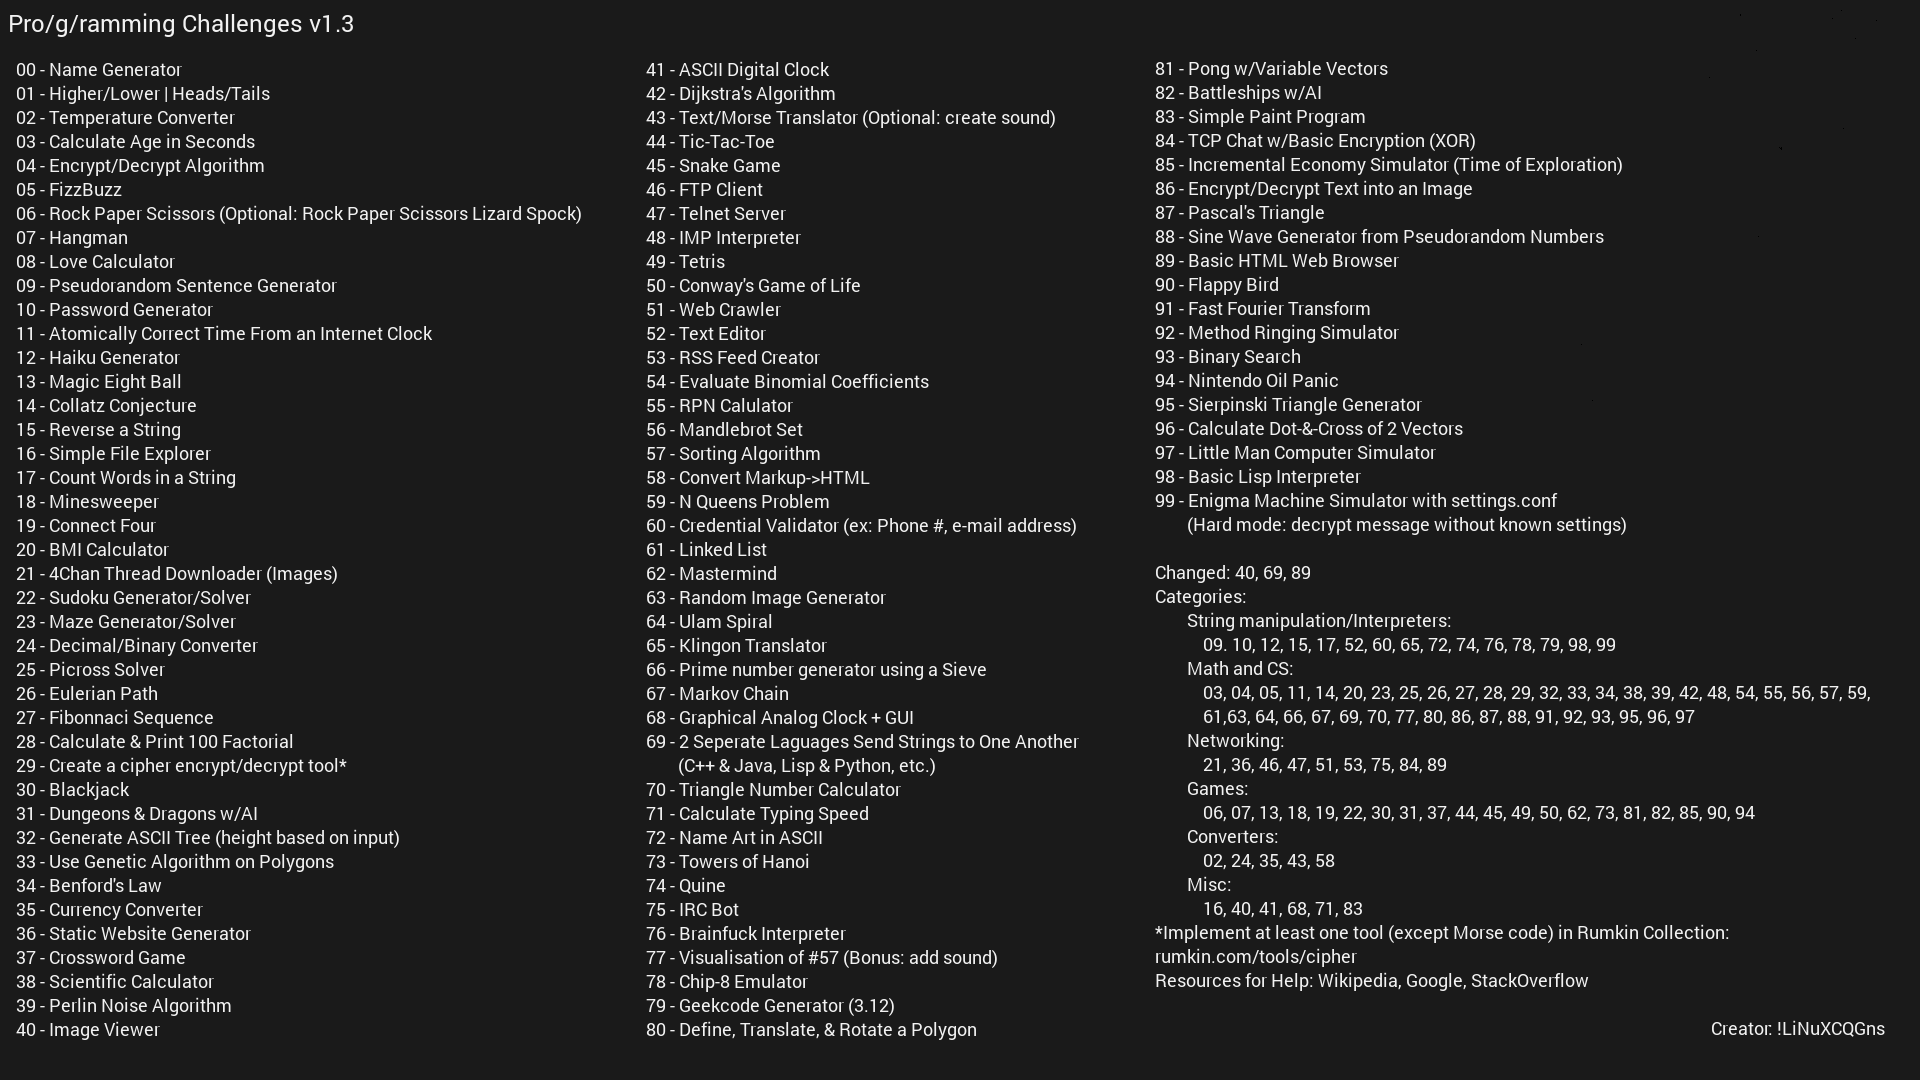
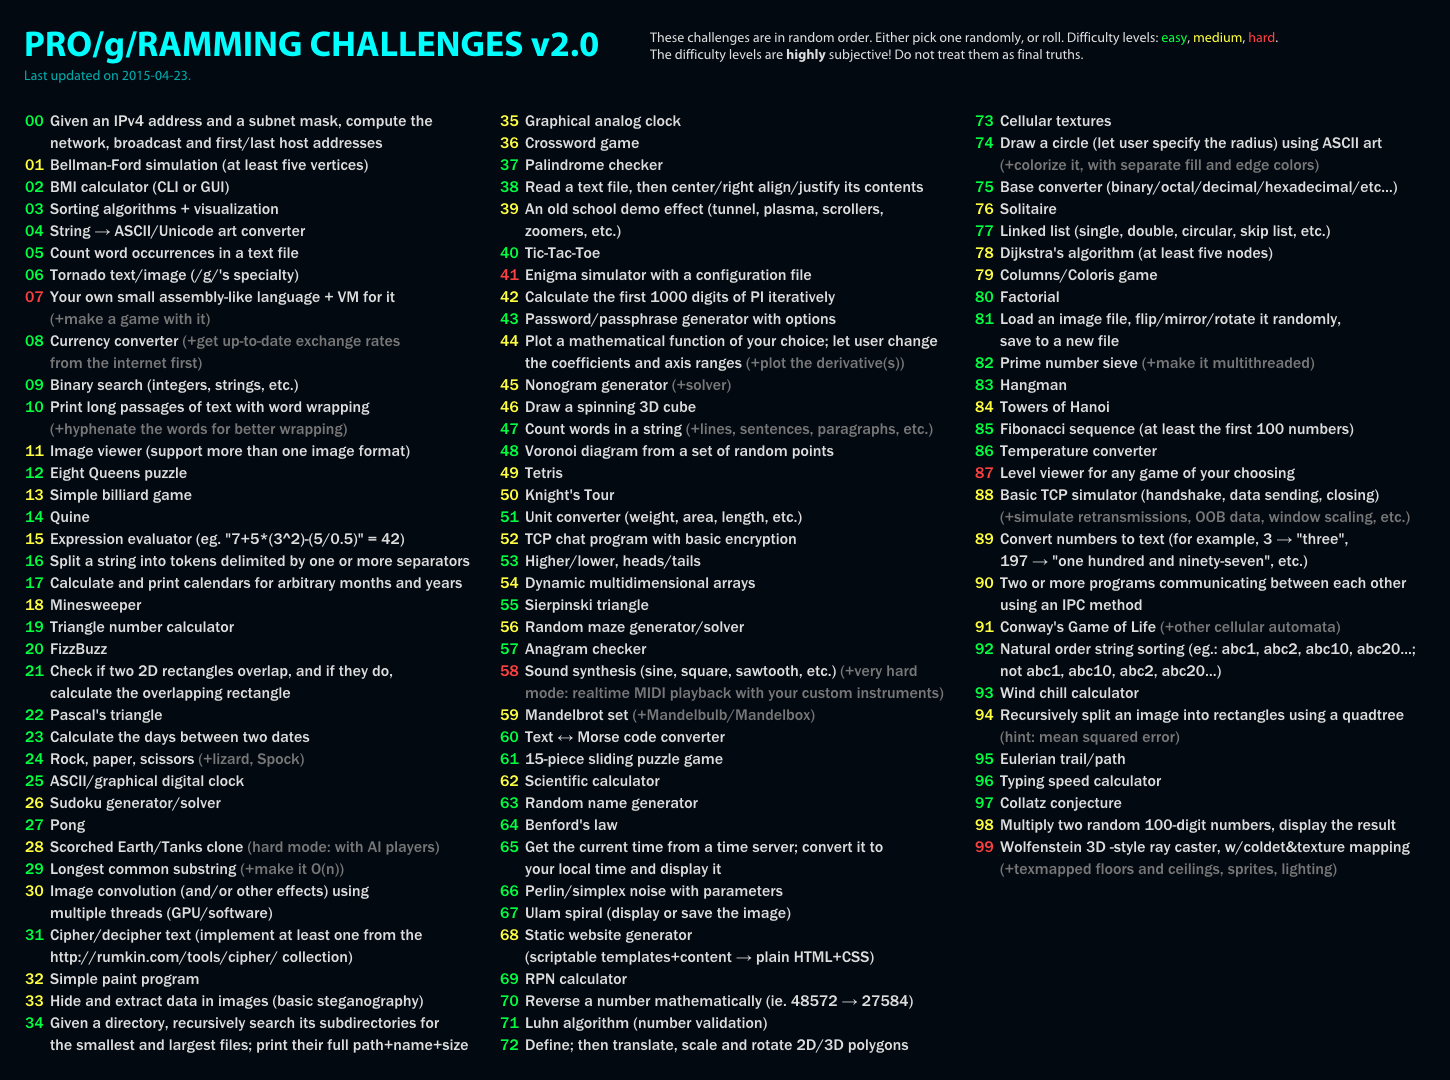
update challenges and 00 in python

Changed region(s): [[0.0, 0.0, 0.9621, 0.9778], [0.9, 0.9472, 0.9931, 0.9778], [0.9, 0.3972, 0.931, 0.4278]]

diff --git a/00/00.py b/00/00.py
@@ -1,0 +1,48 @@
+import sys
+
+"""
+00: Given an IPv4 address and a subnet mask, compute the network, broadcast and
+    first/last host addresses
+"""
+
+def num_to_ip(num):
+    tokens = []
+    for _ in range(4):
+        tokens.insert(0, num & 255)
+        num = num >> 8
+    return '.'.join(map(str, tokens))
+
+def ip_to_num(ip):
+    num = 0
+    for octet in map(int, ip.split('.')):
+        num = num * 256 + octet
+    return num
+
+if len(sys.argv) != 2:
+    print('need one and only one argument', file=sys.stderr)
+    sys.exit(1)
+
+address, _, subnet = sys.argv[1].partition('/')
+subnet = int(subnet)
+num = ip_to_num(address)
+
+if not (0 <= subnet < 33 and address == num_to_ip(num)):
+    print('ip argument does not respect [0-255].[0-255].[0-255].[0-255]/[0-32] format', file=sys.stderr)
+    sys.exit(2)
+
+mask_host = (1 << (32 - subnet)) - 1
+mask_subnet = (((1 << 32) - 1) ^ mask_host)
+
+network = num & mask_subnet
+broadcast = num | mask_host
+
+print('ip:\t\t{}/{}'.format(address, subnet))
+print('network:\t{}/{}'.format(num_to_ip(network), subnet))
+print('broadcast:\t{}/{}'.format(num_to_ip(broadcast), subnet))
+
+if 30 < subnet:
+    print('no host')
+else:
+    first_host = num_to_ip(network + 1)
+    last_host = num_to_ip(broadcast - 1)
+    print('hosts:\t\t{}/{} <-> {}/{}'.format(first_host, subnet, last_host, subnet))
